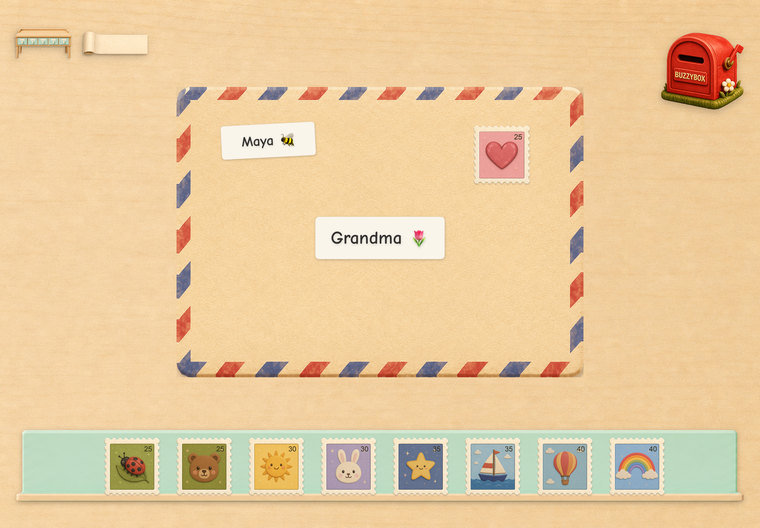
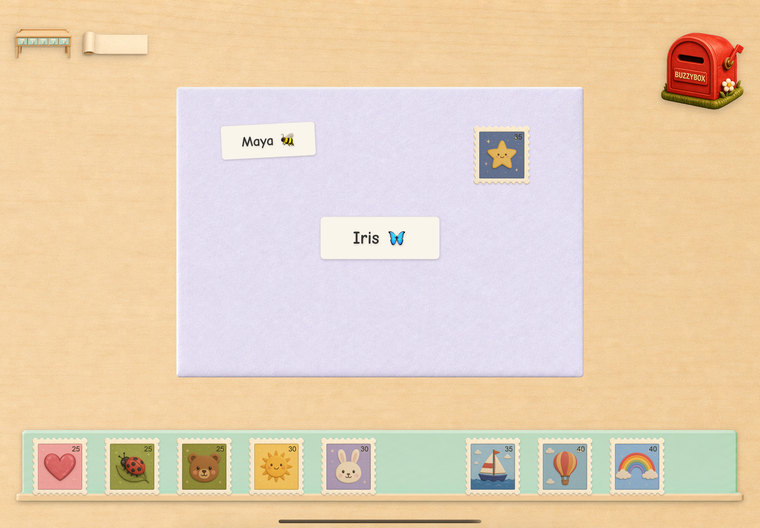
Write your letter, and send it to a friend in lavender
"Write it by hand" is no longer strictly true — the typewriter means a letter
can be typed, so the caption says what the step is rather than how it is done.

Re-shot the send panel. The airmail envelope was cream on maple with only its
border to separate it, so it sank into the desk; lavender reads as a distinct
object against the wood. Addressed to Iris rather than Grandma so the shot shows
a friend, and stamped with the star, which has more contrast at 285px than the
heart did.

Alt text follows the new shot.

diff --git a/index.html b/index.html
@@ -61,10 +61,10 @@
       </figure>
       <figure>
         <img src="assets/step-writing.jpg" alt="A letter being handwritten on moonlit paper with a sleepy moon in the corner" width="760" height="528" />
-        <figcaption>Write it by hand.</figcaption>
+        <figcaption>Write your letter.</figcaption>
       </figure>
       <figure>
-        <img src="assets/step-stamp.jpg" alt="An airmail envelope addressed to Grandma, above a tray of stamps to pick from" width="760" height="528" />
+        <img src="assets/step-stamp.jpg" alt="A lavender envelope addressed to Iris with a star stamp on it, a tray of stamps below and the postbox waiting" width="760" height="528" />
         <figcaption>Stamp it and send.</figcaption>
       </figure>
     </section>
